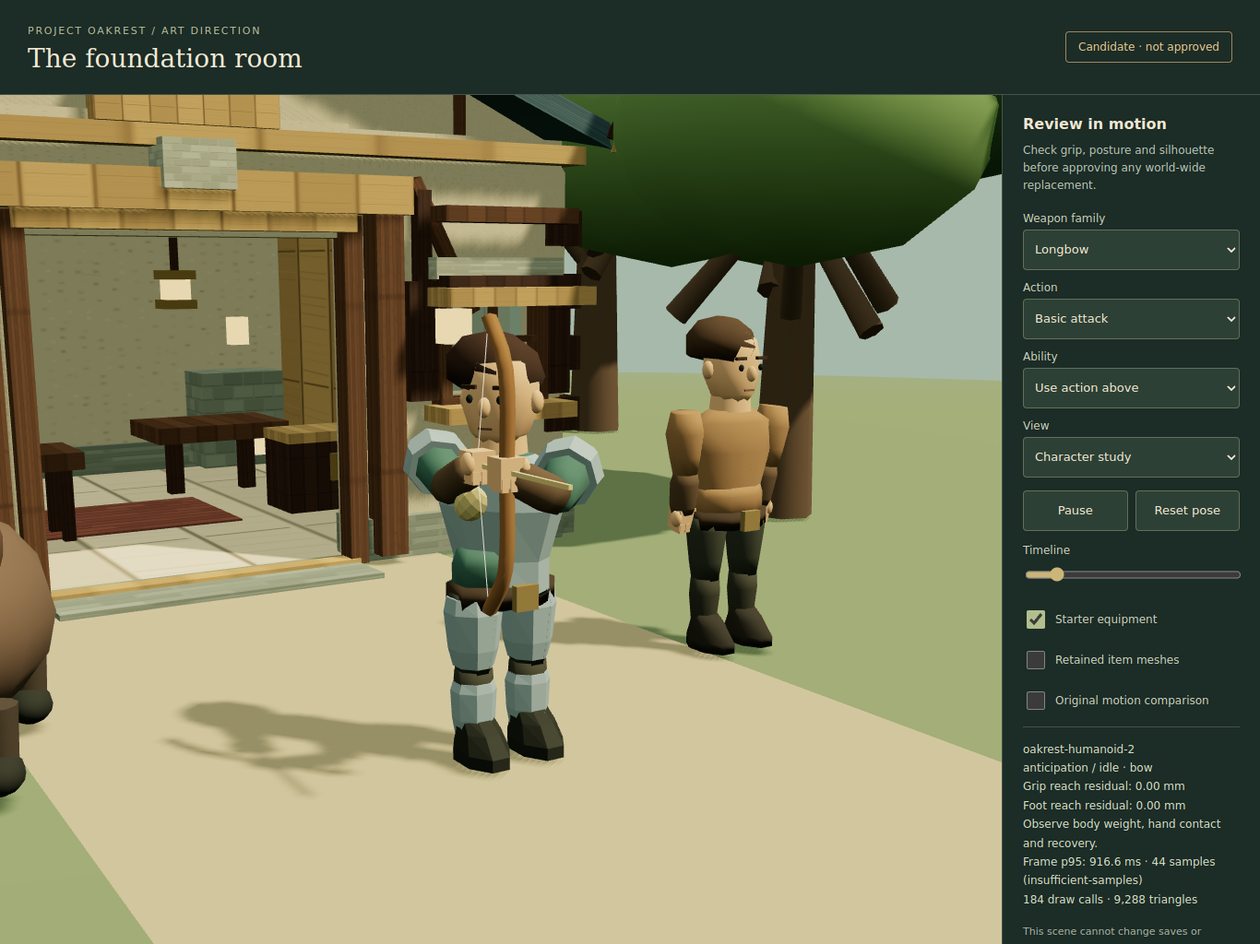
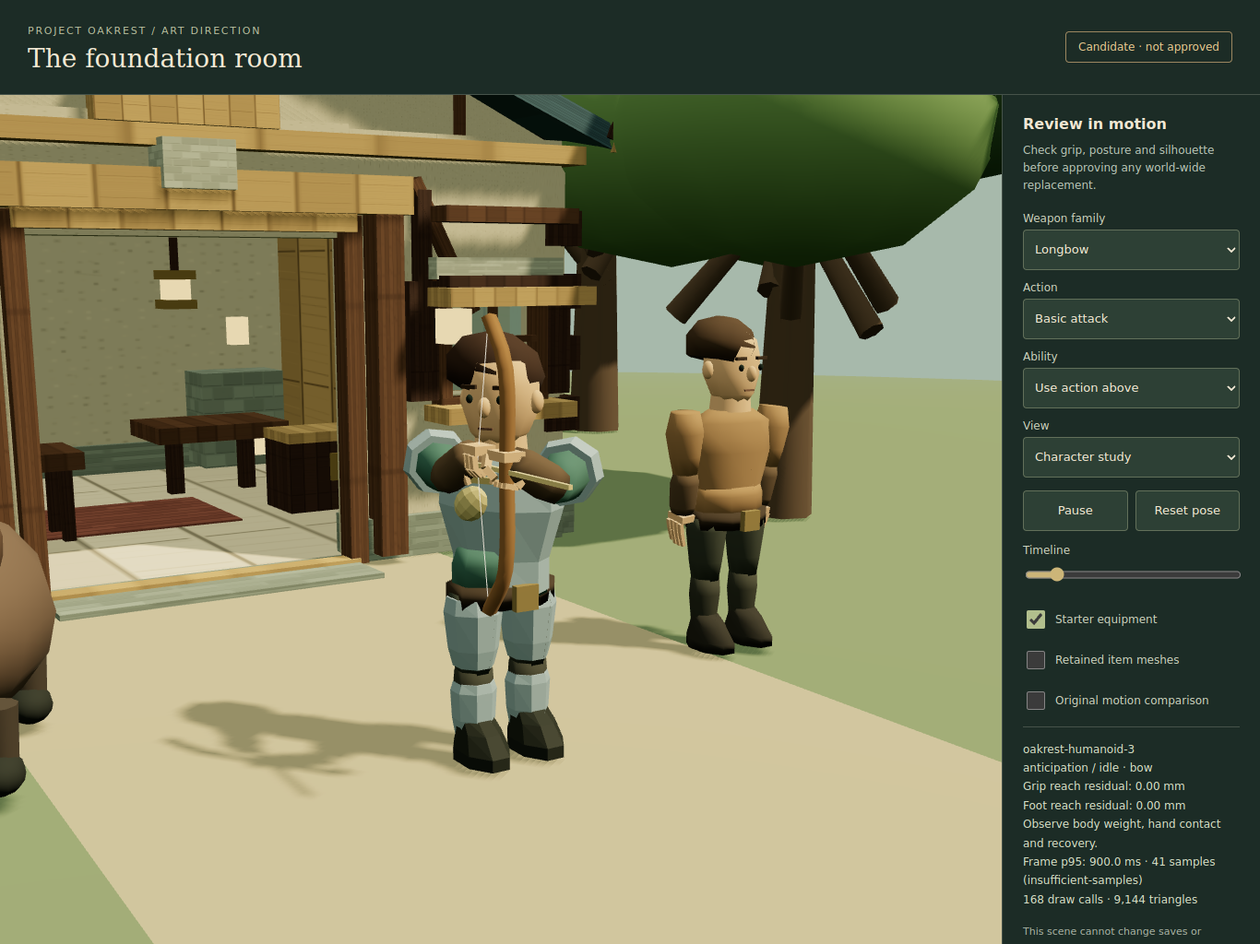
Separate wrist anatomy from grips and ground character falls

diff --git a/src/visual-reference.js b/src/visual-reference.js
@@ -31,7 +31,7 @@ const building={...OAKREST_BUILDINGS.find(b=>b.kind==='home'),id:'reference-hous
 const buildingScene=new THREE.Group();scene.add(buildingScene);const house=buildHouse(buildingScene,building);buildingScene.position.y=-terrainHeight(0,9);
 for(const [i,x,z,h] of [[1,-7,5,1.25],[2,8,8,1.3],[3,-10,13,1.6]])scene.add(treeModel(x,z,h,i));
 const camera=new THREE.PerspectiveCamera(38,1,.05,100);
-const views={character:[4,2.9,-6.5,0,1.25,0],side:[5,2,-1,0,1.35,0],rear:[3,2.6,6,0,1.3,0],ensemble:[12,9,-18,0,2,5],interior:[8,8,1,0,1.8,9]};
+const views={hands:[1.4,1.8,-2.1,.10,1.45,-.25],fallen:[3.8,3,-5.5,0,.4,0],character:[4,2.9,-6.5,0,1.25,0],side:[5,2,-1,0,1.35,0],rear:[3,2.6,6,0,1.3,0],ensemble:[12,9,-18,0,2,5],interior:[8,8,1,0,1.8,9]};
 const specs=listAnimationSpecs();let family='sword',action='idle',selected=null,t=0,paused=false,last=performance.now(),frames=[],elapsed=0,raf=0,disposed=false;
 function option(el,value,label){const o=document.createElement('option');o.value=value;o.textContent=label;el.add(o);}
 for(const name of Object.keys(WEAPON_PROFILES))option($('family'),name,({bow:'Longbow',frost:'Staff',ember:'Wand',daggers:'Twin daggers',woodaxe:'Woodcutting axe'})[name]||name[0].toUpperCase()+name.slice(1));
@@ -46,7 +46,7 @@ function pose(sample=false,dt=1/60){
  const attack=attacking?{start:0,impactAt:selected?.anticipation.seconds??weapon?.windup??.35,interval:d,abilityKind:selected?.motionCue}:null;
  const moving=['walk','backward','left','right'].includes(action),turning=action==='turn';
  actor.rotation.y=legacyActor.rotation.y=turning?t*.7:0;
- const info={dt,t:cycle,stride:t*(action==='run'?10:5),speed:action==='run'?4.7:moving?1.6:0,backwards:action==='backward',side:action==='left'?1:action==='right'?-1:0,turnRate:turning?.7:0,attack,combat:action==='ready'||attacking,hit:action==='hit',dead:action==='death',chopping:action==='work'?{start:0,period:1.18}:null,sample};
+ const info={dt,t:cycle,deathElapsed:t,stride:t*(action==='run'?10:5),speed:action==='run'?4.7:moving?1.6:0,backwards:action==='backward',side:action==='left'?1:action==='right'?-1:0,turnRate:turning?.7:0,attack,combat:action==='ready'||attacking,hit:action==='hit',dead:action==='death',chopping:action==='work'?{start:0,period:1.18}:null,sample};
  animateFoundation(actor.userData,info);animateActor(legacyActor,info);
  animateFoundation(civilian.userData,{dt:1/60,t,combat:false,sample});animateCreature(creature,'boar',t,1/60,0,0,false,0);
  actor.visible=!$('legacy').checked;legacyActor.visible=$('legacy').checked;
@@ -59,6 +59,6 @@ function render(now){if(disposed)return;const rawDt=(now-last)/1000,dt=Math.min(
 $('family').onchange=selectFamily;$('action').onchange=()=>{action=$('action').value;selected=null;$('ability').value='';t=0;};$('ability').onchange=()=>{selected=specs.find(s=>s.id===$('ability').value&&s.weaponFamily===family)||null;t=0;};$('view').onchange=view;$('equipment').onchange=equip;$('imported').onchange=equip;
 $('pause').onclick=()=>{paused=!paused;$('pause').textContent=paused?'Play':'Pause';};$('reset').onclick=()=>{t=0;actor.userData.foundationPosed=false;};$('timeline').oninput=()=>{paused=true;$('pause').textContent='Play';t=Number($('timeline').value)/1000*duration();pose(true);};
 const observer=new ResizeObserver(resize);observer.observe(canvas.parentElement);
-window.oakrestVisualQA={select(name,state='basic',id=''){if(!WEAPON_PROFILES[name])throw Error('Unknown family');$('family').value=name;selectFamily();action=state;$('action').value=state;selected=specs.find(s=>s.id===id&&s.weaponFamily===name)||null;},sample(at,draw=true){paused=true;t=at;pose(true);if(draw)renderer.render(scene,camera);return this.snapshot();},snapshot(){return {family,assetLoaded:actor.userData.weapon.userData.assetLoaded||null,expectedAsset:modelNameForItem('weapon.'+WEAPON_PROFILES[family].style+'.'+(family==='woodaxe'?'bronze-axe':family)),state:actor.userData.animationState,locomotion:actor.userData.locomotion.stage,footError:actor.userData.footError,frameStatistics:summarizeFrameTimes(frames),rigErrors:validateHumanoidRig(actor),gripError:actor.userData.gripError,muzzle:weaponMuzzle(actor).toArray(),drawCalls:renderer.info.render.calls,triangles:renderer.info.render.triangles,geometries:renderer.info.memory.geometries,textures:renderer.info.memory.textures,frames:[...frames],elapsed};},specs:()=>specs,view(name){$('view').value=name;view();},resume(){paused=false;frames=[];}};
+window.oakrestVisualQA={select(name,state='basic',id=''){if(!WEAPON_PROFILES[name])throw Error('Unknown family');$('family').value=name;selectFamily();action=state;$('action').value=state;selected=specs.find(s=>s.id===id&&s.weaponFamily===name)||null;},sample(at,draw=true){paused=true;t=at;pose(true);if(draw)renderer.render(scene,camera);return this.snapshot();},snapshot(){return {family,assetLoaded:actor.userData.weapon.userData.assetLoaded||null,expectedAsset:modelNameForItem('weapon.'+WEAPON_PROFILES[family].style+'.'+(family==='woodaxe'?'bronze-axe':family)),state:actor.userData.animationState,locomotion:actor.userData.locomotion.stage,footError:actor.userData.footError,reaction:{...actor.userData.reaction},bodyGroundCorrection:actor.userData.bodyGroundCorrection,frameStatistics:summarizeFrameTimes(frames),rigErrors:validateHumanoidRig(actor),gripError:actor.userData.gripError,muzzle:weaponMuzzle(actor).toArray(),drawCalls:renderer.info.render.calls,triangles:renderer.info.render.triangles,geometries:renderer.info.memory.geometries,textures:renderer.info.memory.textures,frames:[...frames],elapsed};},specs:()=>specs,view(name){$('view').value=name;view();},resume(){paused=false;frames=[];}};
 function dispose(){if(disposed)return;disposed=true;cancelAnimationFrame(raf);observer.disconnect();const geometries=new Set(),materials=new Set(),textures=new Set();scene.traverse(o=>{if(o.geometry)geometries.add(o.geometry);for(const m of Array.isArray(o.material)?o.material:o.material?[o.material]:[]){materials.add(m);for(const value of Object.values(m))if(value?.isTexture)textures.add(value);}});geometries.forEach(g=>g.dispose());materials.forEach(m=>m.dispose());textures.forEach(t=>t.dispose());renderer.dispose();renderer.forceContextLoss();}
 addEventListener('pagehide',dispose,{once:true});selectFamily();view();resize();raf=requestAnimationFrame(render);

diff --git a/tests/foundation-reactions.test.js b/tests/foundation-reactions.test.js
@@ -1,0 +1,54 @@
+import test from 'node:test';
+import assert from 'node:assert/strict';
+import * as THREE from 'three';
+import {createActor,equipActor} from '../src/actors.js';
+import {animateFoundation} from '../src/foundation-motion.js';
+import {WEAPON_PROFILES,validateHumanoidRig} from '../src/rig-contract.js';
+const make=family=>{const actor=createActor(false,{foundation:true});equipActor(actor,WEAPON_PROFILES[family].style,family,'none');return actor;};
+function bodyFloor(actor,ground=()=>0){
+ const u=actor.userData,inverse=actor.matrixWorld.clone().invert(),matrix=new THREE.Matrix4(),point=new THREE.Vector3();let lowest=Infinity;
+ function visit(node){
+  if(!node.visible||node===u.weapon||node===u.offhand||node===u.cape)return;
+  if(node.isMesh){
+   if(!node.geometry.boundingBox)node.geometry.computeBoundingBox();const b=node.geometry.boundingBox;matrix.multiplyMatrices(inverse,node.matrixWorld);
+   for(let corner=0;corner<8;corner++){point.set(corner&1?b.max.x:b.min.x,corner&2?b.max.y:b.min.y,corner&4?b.max.z:b.min.z).applyMatrix4(matrix);lowest=Math.min(lowest,point.y-ground(point.x,point.z));}
+  }
+  for(const child of node.children)visit(child);
+ }
+ visit(u.rig);return lowest;
+}
+test('death fall grounds the visible body, keeps grips and never moves the gameplay root',()=>{
+ for(const family of Object.keys(WEAPON_PROFILES)){
+  const actor=make(family),u=actor.userData;actor.position.set(7,3,-2);actor.rotation.y=2.1;actor.scale.setScalar(.85);actor.updateMatrix();const original=actor.matrix.clone();
+  for(const ground of [()=>0,(x,z)=>Math.max(-.12,Math.min(.12,x*.03+z*.025))])for(let frame=0;frame<80;frame++){
+   animateFoundation(u,{t:frame/60,deathElapsed:frame/60,dt:1/60,dead:true,sample:true,groundHeightAt:ground});actor.updateMatrixWorld(true);
+   assert.ok(bodyFloor(actor,ground)>=-1e-6,`${family} frame ${frame} penetrates body ground`);
+   assert.ok(u.gripError<.001,family);assert.deepEqual(actor.matrix.toArray(),original.toArray());
+  }
+  assert.ok(Math.abs(u.rig.rotation.x-Math.PI/2)<1e-6);assert.ok(u.rig.position.y<.4,'body must not be raised by a long weapon');
+ }
+});
+test('fall plays once, does not restart with an attack interval, and recovers to neutral',()=>{
+ const actor=make('greatsword'),u=actor.userData;let last=null,maxJump=0;
+ for(let frame=0;frame<210;frame++){
+  animateFoundation(u,{t:frame/60,dt:1/60,dead:frame>=10&&frame<130,hit:frame===4});actor.updateMatrixWorld(true);
+  const head=u.head.getWorldPosition(new THREE.Vector3());if(last)maxJump=Math.max(maxJump,head.distanceTo(last));last=head;
+  assert.ok(u.gripError<.001);if(frame>=60&&frame<130)assert.equal(u.reaction.fall,1);
+ }
+ assert.ok(maxJump<.22,`single-frame head jump ${maxJump}`);assert.equal(u.reaction.fall,0);
+ assert.ok(u.rig.position.length()<1e-6);assert.ok(Math.abs(u.rig.rotation.x)<1e-6);assert.ok(Math.abs(u.rig.rotation.z)<1e-6);assert.ok(u.footError<1e-6);
+ assert.equal(u.animationState,'idle');assert.equal(u.visualActionStart,null);
+});
+test('wrist solves keep grip sockets fixed while shared hand skins pose independently',()=>{
+ const actor=make('greatsword'),u=actor.userData,other=make('greatsword');
+ assert.equal(u.leftHandSkin.geometry,other.userData.leftHandSkin.geometry);
+ assert.notEqual(u.leftHandSkin.morphTargetInfluences,other.userData.leftHandSkin.morphTargetInfluences);
+ for(const family of Object.keys(WEAPON_PROFILES)){
+  equipActor(actor,WEAPON_PROFILES[family].style,family,'none');animateFoundation(u,{t:.3,attack:{start:0,impactAt:.5,interval:1},sample:true});actor.updateMatrixWorld(true);
+  assert.deepEqual(validateHumanoidRig(actor),[]);assert.ok(u.gripError<.001);
+  for(const side of ['left','right'])assert.equal(u[side+'Wrist'].position.length(),.34);
+  if(WEAPON_PROFILES[family].draw)assert.deepEqual(u.rightHandSkin.morphTargetInfluences,[0,1]);
+ }
+ u.family='civilian';u.weapon.clear();u.offhand.clear();animateFoundation(u,{t:0,combat:false,sample:true});
+ assert.deepEqual(u.leftHandSkin.morphTargetInfluences,[0,0]);assert.deepEqual(u.rightHandSkin.morphTargetInfluences,[0,0]);
+});

diff --git a/src/main.js b/src/main.js
@@ -1486,7 +1486,7 @@ window.oakrestDiagnostics=()=>({...stats,quality,graphics:visualLighting.metrics
 // Local-only QA uses isolated browser contexts and the real simulation/actions.
 if((['localhost','127.0.0.1'].includes(location.hostname)||/^\/oakrest-dev(?:\/|$)/.test(location.pathname))&&new URLSearchParams(location.search).has('qa'))window.oakrestQA={
  animation:{specs:()=>listAnimationSpecs(),events:()=>animationJournal.latest(),pose:(family,cue,windup=1,release=0)=>abilityMotion(family,cue,windup,release),active:()=>attackAnimation?{...attackAnimation}:null,
-  visual:()=>({candidate:candidateVisuals,rigVersion:hero.userData.rigVersion||null,family:hero.userData.family,state:hero.userData.animationState||null,locomotion:hero.userData.locomotion?.stage||null,gripError:hero.userData.gripError??null,footError:hero.userData.footError??null,assetLoaded:hero.userData.weapon.userData.assetLoaded||null})},
+  visual:()=>({candidate:candidateVisuals,rigVersion:hero.userData.rigVersion||null,family:hero.userData.family,state:hero.userData.animationState||null,locomotion:hero.userData.locomotion?.stage||null,gripError:hero.userData.gripError??null,footError:hero.userData.footError??null,reaction:hero.userData.reaction?{...hero.userData.reaction}:null,bodyGroundCorrection:hero.userData.bodyGroundCorrection??null,assetLoaded:hero.userData.weapon.userData.assetLoaded||null})},
  state:()=>({data:structuredClone(data),quickInventory:{open:sideInventoryOpen,items:inventoryEntries(data).length},woodcutting:{active:woodcuttingTarget?.id||null,trees:woodcuttingTrees.map(tree=>({id:tree.id,species:tree.species,logs:tree.state.logs,respawnAt:tree.state.respawnAt,visible:tree.group.visible}))},style,hp,combatTarget:combatTarget?.type||null,autoCombat:!!combatTarget,maxHit:maxHitFor(levelFromXp(data.xp[style]).level,getWeapon().basic,outgoingMultiplier(data.armour[style],style)*equipmentModifiers(data,style).power),city:{districts:expandedTown.districts,landmark:expandedTown.landmark,ambientCount:expandedTown.ambientCount},heroHeading:hero.rotation.y,cameraPosition:{x:camera.position.x,y:camera.position.y,z:camera.position.z},town:{buildings:expandedTown.buildings,staff:townLife.staff,villagers:townLife.snapshot(),inside:expandedTown.inside(hero.position.x,hero.position.z),interiorCameraBlend},cameraSettings:{...cameraSettings},gamepadConnected:!!padState,yaw,pitch,area:data.onboarding?.area||'world',hero:{x:hero.position.x,y:hero.position.y,z:hero.position.z},yaw,shieldUntil,dodgeUntil,cooldowns:Object.fromEntries(cooldowns),pendingBasic:!!pendingBasic,pendingAbility:!!pendingAbility,queuedAbility:queuedAbility?.index??null,attackUntil,time:now(),enemies:enemies.map(e=>({type:e.type,x:e.x,z:e.z,hp:e.hp,dead:e.dead,retreating:e.retreating,aggro:e.aggro,warning:!!e.warning,aiState:e.aiState||'idle',rootUntil:e.rootUntil,stunUntil:e.stunUntil,startX:e.startX,startZ:e.startZ})),projectiles:projectiles.filter(p=>!p.particle).length,activeStrikes:activeStrikes.length,effects:projectiles.length+rings.length+visuals.count}),
  quickInventory(open){setSideInventoryOpen(open);},woodcut:id=>startWoodcutting(id),learnWoodcutting(){data.professions.woodcuttingLearned=true;if(!data.inventory.weapons.melee.includes('bronze-axe'))data.inventory.weapons.melee.push('bronze-axe');save();},
  aim(x,y,z){const dx=x-hero.position.x,dz=z-hero.position.z;yaw=Math.atan2(dx,-dz);const distance=Math.hypot(dx,dz);let lo=-.45,hi=.85;for(let i=0;i<30;i++){const p=(lo+hi)/2,orbit=cameraOrbitVector(yaw,p,cameraSettings.zoom,cameraSettings.height),cameraY=hero.position.y+1.65+orbit.y,focusY=hero.position.y+1.65-p*4,atY=cameraY+(focusY-cameraY)*(distance+Math.hypot(orbit.x,orbit.z))/(2.8+Math.hypot(orbit.x,orbit.z));if(atY>y)lo=p;else hi=p;}pitch=(lo+hi)/2;},

diff --git a/src/foundation-motion.js b/src/foundation-motion.js
@@ -7,6 +7,9 @@ import {abilityMotion} from './animation-language.js';
 import {constrainWeaponHands} from './weapon-handling.js';
 import {locomotionFrame,plantFoundationFeet} from './foundation-locomotion.js';
 import {visualActionClock} from './visual-action-clock.js';
+import {poseHumanoidHands} from './humanoid-hands.js';
+import {WEAPON_PROFILES} from './rig-contract.js';
+import {reactionFrame,poseFoundationReaction,supportFallenBody} from './foundation-reactions.js';
 const clamp=v=>Math.min(1,Math.max(0,v));
 const smooth=v=>{v=clamp(v);return v*v*(3-2*v);};
 export function foundationState({t=0,attack=null,dead=false,hit=false,dodge=0,chopping=null,speed=0,combat=false}){
@@ -21,13 +24,18 @@ export function animateFoundation(u,info){
  const clock=visualActionClock(t,active?attack:null),wind=clock.wind,recovery=clock.recovery,release=clock.contact;
  const cue=abilityMotion(family,active?attack.abilityKind:null,wind,release,attack?.combo);
  const motion=locomotionFrame(u,info),strength=clamp(motion.speed/4.7),s=Math.sin(motion.phase*Math.PI*2)*(backwards?-1:1),alert=combat||active;
+ const reaction=reactionFrame(u,info);
  u.animationState=state;
  const snap=info.sample||!u.foundationPosed;
- const rotation=(node,x,y,z)=>{if(snap)node.rotation.set(x,y,z);else node.rotation.set(damp(node.rotation.x,x,18,dt),damp(node.rotation.y,y,18,dt),damp(node.rotation.z,z,18,dt));};
- rotation(u.rig,dodge*.45+cue.lean*.3,0,dead?-1.5:hit?.08:-side*.04-motion.turn*.012);
+ const rotation=(node,x,y,z)=>{
+  // Reactions are an output layer, never next frame's base pose input.
+  const base=node.userData.foundationBaseRotation||(node.userData.foundationBaseRotation=node.rotation.clone());
+  if(snap)base.set(x,y,z);else base.set(damp(base.x,x,18,dt),damp(base.y,y,18,dt),damp(base.z,z,18,dt));node.rotation.copy(base);
+ };
+ rotation(u.rig,dodge*.45+cue.lean*.3,0,hit?.08:-side*.04-motion.turn*.012);
  rotation(u.upperBody,0,(family==='bow'||family==='shortbow'?-1:0)+cue.twist*.35,0);
  // Knees compensate swing clearance. No imported leg rotations at idle.
- u.rig.position.y=dead?.08:0;
+ u.rig.position.set(0,0,0);
  for(const [sign,leg,knee] of [[1,u.leftLeg,u.leftKnee],[-1,u.rightLeg,u.rightKnee]]){
   leg.rotation.set(sign*s*.45*strength,0,0);
   knee.rotation.set(Math.max(0,-sign*s)*.65*strength,0,0);
@@ -38,6 +46,8 @@ export function animateFoundation(u,info){
  u.rightArm.rotation.set(-.05+s*.25*strength,0,-.08);
  u.leftElbow.rotation.set(-.12,0,0);u.rightElbow.rotation.set(-.12,0,0);
  u.leftHand.rotation.set(0,0,0);u.rightHand.rotation.set(0,0,0);
+ u.leftWrist.rotation.set(0,0,0);u.rightWrist.rotation.set(0,0,0);
+ poseHumanoidHands(u,WEAPON_PROFILES[family],info);
  let x=.30,y=1.16,z=-.24,rx=-.55,ry=0,rz=0;
  if(family==='bow'||family==='shortbow'){
   x=-.32;y=alert?1.83:1.30;z=alert?-.60:-.40;rx=0;ry=1.0;rz=alert?0:-.18;
@@ -84,6 +94,8 @@ export function animateFoundation(u,info){
  if(u.nockedArrow){u.nockedArrow.position.z=u.bowString?.31+.34*pull:0;u.nockedArrow.visible=state!=='recovery'||recovery>.6;}
  if(u.crossbowSlider)u.crossbowSlider.position.z=-.57+.26*wind;
  if(u.magicFocus)u.magicFocus.scale.setScalar((family==='ember'?.6:1)*(1+.10*wind));
+ poseFoundationReaction(u,reaction);
  constrainWeaponHands(u,pull);
- plantFoundationFeet(u,info,motion);
+ if(!reaction.weight)plantFoundationFeet(u,info,motion);else u.footError=0;
+ supportFallenBody(u,info,reaction);
 }

diff --git a/src/humanoid-hands.js b/src/humanoid-hands.js
@@ -1,0 +1,49 @@
+/** Authored, mirrored hands. One shared morph mesh per side, four fingers and
+ * an opposed thumb. The empty centre is the grip socket; the wrist is 0.08 units
+ * above it. Morphs alter skin only, never the socket or an action clock. */
+import * as THREE from 'three';
+const cache=new Map(),box=new THREE.BoxGeometry(1,1,1).toNonIndexed();
+const axis=new THREE.Vector3(0,1,0);
+function geometryFor(side,pose){
+ const positions=[],normals=[],v=new THREE.Vector3(),q=new THREE.Quaternion();
+ function segment(a,b,width,depth){
+  const start=new THREE.Vector3(...a),end=new THREE.Vector3(...b),direction=end.clone().sub(start);
+  const length=direction.length(),centre=start.add(end).multiplyScalar(.5);
+  q.setFromUnitVectors(axis,direction.normalize());
+  for(let i=0;i<box.attributes.position.count;i++){
+   v.fromBufferAttribute(box.attributes.position,i).multiply(new THREE.Vector3(width,length,depth)).applyQuaternion(q).add(centre);positions.push(v.x,v.y,v.z);
+   v.fromBufferAttribute(box.attributes.normal,i).applyQuaternion(q);normals.push(v.x,v.y,v.z);
+  }
+ }
+ segment([0,.061,0],[0,.112,0],.13,.174);
+ for(let finger=0;finger<4;finger++){
+  const z=-.066+finger*.044,scale=finger===3?.86:finger===0?.94:1;
+  const grip=[[.065,.065],[.090,-.015],[.027,-.085],[-.054,-.065]];
+  const open=[[.065,.065],[.052,-.015],[.035,-.080],[.020,-.135]];
+  const draw=[[.065,.065],[.057,-.012],[.015,-.055],[-.020,-.028]];
+  const points=(pose==='grip'?grip:pose==='draw'&&finger<3?draw:open).map(([x,y])=>[x*side,y*scale,z]);
+  for(let i=0;i<3;i++)segment(points[i],points[i+1],.033-i*.003,.034-i*.002);
+ }
+ const thumb=pose==='grip'?[[ -.057,.078,.096],[-.085,.015,.068],[-.060,-.035,.015]]:
+  [[-.057,.078,.096],[-.093,.020,.095],[-.083,-.020,.065]];
+ for(let i=0;i<2;i++)segment(thumb[i].map((n,j)=>j===0?n*side:n),thumb[i+1].map((n,j)=>j===0?n*side:n),.040-i*.004,.043-i*.003);
+ const geometry=new THREE.BufferGeometry();geometry.setAttribute('position',new THREE.Float32BufferAttribute(positions,3));geometry.setAttribute('normal',new THREE.Float32BufferAttribute(normals,3));
+ return geometry;
+}
+export function createHumanoidHand(material,side){
+ if(!cache.has(side)){
+  const geometry=geometryFor(side,'open'),grip=geometryFor(side,'grip'),draw=geometryFor(side,'draw');
+  geometry.morphAttributes.position=[grip.attributes.position,draw.attributes.position];geometry.morphAttributes.normal=[grip.attributes.normal,draw.attributes.normal];
+  geometry.computeBoundingBox();geometry.computeBoundingSphere();geometry.userData.sharedHumanoidShape=true;cache.set(side,geometry);
+ }
+ const mesh=new THREE.Mesh(cache.get(side),material);mesh.name='humanoid.hand-skin';mesh.castShadow=true;return mesh;
+}
+export function poseHumanoidHands(u,profile,info){
+ for(const side of ['left','right']){
+  const mesh=u[side+'HandSkin'];if(!mesh)continue;
+  const draw=!!profile?.draw&&side==='right';
+  const held=profile&&(side===profile.primary||!!profile.secondary&&side==='left'||u.family==='daggers'||side==='left'&&u.offhand.children.length>0);
+  const blend=info.sample||!u.foundationPosed?1:1-Math.exp(-24*Math.max(0,Math.min(.1,info.dt||0)));
+  for(let i=0;i<2;i++){const target=i===0?held&&!draw?1:0:draw?1:0;mesh.morphTargetInfluences[i]+=(target-mesh.morphTargetInfluences[i])*blend;}
+ }
+}

diff --git a/src/foundation-reactions.js b/src/foundation-reactions.js
@@ -1,0 +1,55 @@
+/** Visual fall/recovery and impact response. The simulation root, health and
+ * attack clocks are never written. Body support uses transformed mesh bounds;
+ * weapons/capes cannot lever the character off the floor. */
+import * as THREE from 'three';
+const inverse=new THREE.Matrix4(),matrix=new THREE.Matrix4(),point=new THREE.Vector3();
+const clamp=v=>Math.max(0,Math.min(1,v)),smooth=v=>v*v*(3-2*v);
+export function reactionFrame(u,info){
+ const dt=Math.max(0,Math.min(.1,info.dt||0));
+ const state=u.reaction||(u.reaction={fall:0,hit:0});
+ if(info.sample){state.fall=info.dead?clamp((info.deathElapsed??info.t??0)/.65):0;state.hit=info.hit&&!info.dead?1:0;}
+ else{
+  state.fall=clamp(state.fall+(info.dead?dt/.65:-dt/.45));
+  state.hit+=((info.hit&&!info.dead?1:0)-state.hit)*(1-Math.exp(-28*dt));
+ }
+ state.weight=smooth(state.fall);return state;
+}
+export function poseFoundationReaction(u,reaction){
+ const w=reaction.weight,hit=reaction.hit*(1-w);
+ u.rig.rotation.z*=1-w;
+ u.rig.rotation.x=u.rig.rotation.x*(1-w)+Math.PI*.5*w;u.rig.position.z=-.78*w;
+ u.upperBody.rotation.y*=1-w;u.upperBody.rotation.x=-.10*hit;
+ u.head.rotation.x=.10*hit-.10*w;u.head.rotation.z*=1-w;
+ if(!w)return;
+ for(const [side,thigh,knee] of [['left',.20,.45],['right',.10,.20]]){
+  u[side+'Leg'].rotation.set(thigh*w,0,0);u[side+'Knee'].rotation.set(knee*w,0,0);u[side+'Ankle'].quaternion.identity();
+  const arm=u[side+'Arm'],elbow=u[side+'Elbow'];
+  arm.rotation.set(arm.rotation.x*(1-w)+.25*w,arm.rotation.y*(1-w),arm.rotation.z*(1-w)+(side==='left'?-.12:.12)*w);
+  elbow.rotation.set(elbow.rotation.x*(1-w)-.20*w,0,0);
+ }
+ // Lay the shaft along the ground plane as the body settles. Hand constraints
+ // run afterwards, preserving both grips even when a fall interrupts a swing.
+ u.weapon.position.lerp(point.set(.20,1.30,-.15),w);
+ u.weapon.rotation.set(u.weapon.rotation.x*(1-w),u.weapon.rotation.y*(1-w)-Math.PI*.5*w,u.weapon.rotation.z*(1-w));
+}
+export function supportFallenBody(u,info,reaction){
+ if(!reaction.weight){u.bodyGroundCorrection=0;return;}
+ const actor=u.rig.parent;actor.updateWorldMatrix(true,true);inverse.copy(actor.matrixWorld).invert();
+ let lift=-Infinity;
+ function visit(node){
+  if(!node.visible||node===u.weapon||node===u.offhand||node===u.cape)return;
+  if(node.isMesh){
+   const geometry=node.geometry;if(!geometry.boundingBox)geometry.computeBoundingBox();
+   const bounds=geometry.boundingBox;matrix.multiplyMatrices(inverse,node.matrixWorld);
+   for(let corner=0;corner<8;corner++){
+    point.set(corner&1?bounds.max.x:bounds.min.x,corner&2?bounds.max.y:bounds.min.y,corner&4?bounds.max.z:bounds.min.z).applyMatrix4(matrix);
+    const sampled=info.groundHeightAt?.(point.x,point.z)??0,ground=Number.isFinite(sampled)?Math.max(-.18,Math.min(.18,sampled)):0;
+    lift=Math.max(lift,ground+.006-point.y);
+   }
+  }
+  for(const child of node.children)visit(child);
+ }
+ visit(u.rig);
+ u.bodyGroundCorrection=Number.isFinite(lift)?Math.max(0,lift):0;
+ u.rig.position.y+=u.bodyGroundCorrection;
+}

diff --git a/src/actors.js b/src/actors.js
@@ -6,6 +6,7 @@ import {restoreKayKitPose,applyKayKitPose} from './kaykit-motion.js';
 import {animateFoundation} from './foundation-motion.js';
 import {HUMANOID_RIG_VERSION,HUMANOID_JOINTS} from './rig-contract.js';
 import {HUMANOID_SHAPES as shapes} from './humanoid-shapes.js';
+import {createHumanoidHand} from './humanoid-hands.js';
 import {AXE_BY_ID} from './woodcutting.js';
 const materials=new Map(),geometries=new Map();
 const material=(color,metal=false)=>{const key=color+metal;if(!materials.has(key))materials.set(key,new THREE.MeshStandardMaterial({color,roughness:metal?.38:.88,metalness:metal?.55:0}));return materials.get(key);};
@@ -51,16 +52,18 @@ export function createActor(bandit=false,{foundation=false}={}){
   const p=pivot(rig,s*.43,1.77,0),elbow=pivot(p,0,-.40,0);
   if(foundation){mesh(p,shapes.upperArm,body,0,0,0);mesh(elbow,shapes.forearm,'#675440',0,0,0);}
   else {ball(p,body,0,-.02,0,.19,.23,.19);tube(p,body,0,-.22,0,.13,.105,.39);ball(elbow,skin,0,0,0,.105,.11,.10);tube(elbow,'#675440',0,-.16,0,.12,.10,.30);ball(elbow,skin,0,-.33,0,.115,.135,.105);}
-  const hand=pivot(elbow,0,-.34,foundation?0:-.06);
-  if(foundation){block(hand,skin,0,0,0,.15,.16,.14);for(let i=0;i<3;i++)block(hand,skin,-.06+i*.055,-.065,-.015,.042,.07,.12);ball(hand,skin,s*.082,.015,-.035,.038,.065,.05);}
+  const wrist=foundation?pivot(elbow,0,-.34,0):null;
+  const hand=foundation?pivot(wrist,0,-.08,0):pivot(elbow,0,-.34,-.06);
+  const handSkin=foundation?createHumanoidHand(skin,s):null;if(handSkin)hand.add(handSkin);
   pauldrons.push(foundation?mesh(p,shapes.pauldron,material('#839a9b',true),0,.025,0):ball(p,material('#839a9b',true),0,.035,0,.23,.18,.24));
-  return {p,elbow,hand};
+  return {p,elbow,hand,wrist,handSkin};
  }
  const ll=leg(-1),rl=leg(1),la=arm(-1),ra=arm(1);
  g.userData={rig,head,body,cloth,cape,chestPlate,leather,pauldrons,skinMaterial:skin,hairMat,hair,hairBack,hairTail,hairCurls,torso,outfitTrims,leftLeg:ll.p,rightLeg:rl.p,leftKnee:ll.knee,rightKnee:rl.knee,leftArm:la.p,rightArm:ra.p,leftElbow:la.elbow,rightElbow:ra.elbow,weapon:ra.hand,offhand:la.hand,leftHand:la.hand,rightHand:ra.hand,foundation,owned:[],family:'sword'};
  if(foundation){
   const u=g.userData;u.rigVersion=HUMANOID_RIG_VERSION;u.head.scale.setScalar(.9);
   u.leftAnkle=ll.ankle;u.rightAnkle=rl.ankle;
+  u.leftWrist=la.wrist;u.rightWrist=ra.wrist;u.leftHandSkin=la.handSkin;u.rightHandSkin=ra.handSkin;
   u.upperBody=pivot(rig,0,0,0);
   for(const part of [torso,neck,head,cape,chestPlate,leather,la.p,ra.p,...outfitTrims])u.upperBody.add(part);
   u.bodyGeometry=[capeGeo];

diff --git a/visual-reference.html b/visual-reference.html
@@ -6,7 +6,7 @@
 <aside><h2>Review in motion</h2><p>Check grip, posture and silhouette before approving any world-wide replacement.</p>
 <label>Weapon family<select id="family"></select></label><label>Action<select id="action"><option value="idle">Relaxed idle</option><option value="ready">Combat ready</option><option value="walk">Walk</option><option value="run">Run</option><option value="backward">Walk backward</option><option value="left">Strafe left</option><option value="right">Strafe right</option><option value="turn">Turn in place</option><option value="basic">Basic attack</option><option value="hit">Hit response</option><option value="death">Death pose</option><option value="work">Woodcutting</option></select></label>
 <label>Ability<select id="ability"><option value="">Use action above</option></select></label>
-<label>View<select id="view"><option value="character">Character study</option><option value="ensemble">World & inhabitants</option><option value="interior">Interior cutaway</option><option value="side">Grip side view</option><option value="rear">Rear view</option></select></label>
+<label>View<select id="view"><option value="character">Character study</option><option value="ensemble">World & inhabitants</option><option value="interior">Interior cutaway</option><option value="side">Grip side view</option><option value="rear">Rear view</option><option value="hands">Hand detail</option><option value="fallen">Fall & ground contact</option></select></label>
 <div class="row"><button id="pause">Pause</button><button id="reset">Reset pose</button></div><label>Timeline<input id="timeline" type="range" min="0" max="1000" value="0"></label>
 <label class="check"><input id="equipment" type="checkbox" checked> Starter equipment</label><label class="check"><input id="imported" type="checkbox"> Retained item meshes</label><label class="check"><input id="legacy" type="checkbox"> Original motion comparison</label>
 <output id="readout" aria-live="polite"></output><p class="note">This scene cannot change saves or resolve combat. Pose contact is not evidence of gameplay hit accuracy. Physical iPad Safari review is still required.</p>

diff --git a/src/rig-contract.js b/src/rig-contract.js
@@ -1,9 +1,9 @@
-/** Oakrest humanoid v2 contract. Visual units preserve the existing 2.5-unit actor.
+/** Oakrest humanoid v3 contract. Visual units preserve the existing 2.5-unit actor.
  * -Z forward, +Y up, +X character-left from the viewer facing the actor.
  * No profile may change a gameplay range, attack clock or collision shape.
  */
-export const HUMANOID_RIG_VERSION='oakrest-humanoid-2';
-export const HUMANOID_JOINTS=Object.freeze(['rig','upperBody','head','leftArm','rightArm','leftElbow','rightElbow','leftHand','rightHand','leftLeg','rightLeg','leftKnee','rightKnee','leftAnkle','rightAnkle']);
+export const HUMANOID_RIG_VERSION='oakrest-humanoid-3';
+export const HUMANOID_JOINTS=Object.freeze(['rig','upperBody','head','leftArm','rightArm','leftElbow','rightElbow','leftWrist','rightWrist','leftHand','rightHand','leftLeg','rightLeg','leftKnee','rightKnee','leftAnkle','rightAnkle']);
 export const WEAPON_PROFILES=Object.freeze({
  sword:{style:'melee',primary:'right',grip:[0,0,0],muzzle:[0,0,-1.23]},
  greatsword:{style:'melee',primary:'right',grip:[0,0,0],secondary:[0,0,.18],muzzle:[0,0,-1.65]},
@@ -24,5 +24,6 @@ export function validateHumanoidRig(actor){
  for(const name of HUMANOID_JOINTS)if(!u?.[name]?.isObject3D)errors.push('Missing joint '+name);
  for(const name of ['weapon','offhand'])if(!u?.[name]?.isObject3D)errors.push('Missing socket '+name);
  if(u?.foundation&&(u.upperBody?.parent!==u.rig||u.weapon.parent!==u.upperBody))errors.push('Weapon control must belong to upper-body visual rig');
+ for(const side of ['left','right'])if(u?.foundation&&(u[side+'Wrist']?.parent!==u[side+'Elbow']||u[side+'Hand']?.parent!==u[side+'Wrist']))errors.push('Invalid wrist/grip hierarchy: '+side);
  return errors;
 }

diff --git a/src/weapon-handling.js b/src/weapon-handling.js
@@ -6,12 +6,13 @@
 import * as THREE from 'three';
 import {WEAPON_PROFILES} from './rig-contract.js';
 import {solveTwoBone} from './two-bone-constraint.js';
-const direction=new THREE.Vector3(),pole=new THREE.Vector3(),target=new THREE.Vector3();
+const direction=new THREE.Vector3(),pole=new THREE.Vector3(),target=new THREE.Vector3(),wristGoal=new THREE.Vector3();
 const UPPER=.40,LOWER=.34;
 export function solveArm(u,side,goal,orientation){
- const upper=u[side+'Arm'],lower=u[side+'Elbow'],hand=u[side+'Hand'];
+ const upper=u[side+'Arm'],lower=u[side+'Elbow'],hand=u[side+'Hand'],wrist=u[side+'Wrist'];
  pole.set(side==='left'?-.75:.75,-.65,.25);
- return solveTwoBone(upper,lower,hand,goal,pole,orientation);
+ wristGoal.copy(hand.position).applyQuaternion(orientation).negate().add(goal);
+ return solveTwoBone(upper,lower,wrist,wristGoal,pole,orientation);
 }
 export function constrainWeaponHands(u,pull=0){
  const profile=WEAPON_PROFILES[u.family];if(!profile)return;
@@ -27,7 +28,8 @@ export function constrainWeaponHands(u,pull=0){
    else if(profile.draw)target.set(0,0,.18+.34*pull);
    else target.fromArray(profile.secondary);
    target.applyQuaternion(w.quaternion).add(w.position);
-   direction.copy(target).sub(u[side+'Arm'].position);
+   wristGoal.copy(u[side+'Hand'].position).applyQuaternion(w.quaternion);
+   direction.copy(target).sub(wristGoal).sub(u[side+'Arm'].position);
    const distance=direction.length(),limit=UPPER+LOWER-.012;
    if(distance>limit)w.position.addScaledVector(direction,-(distance-limit)/distance);
   }

diff --git a/tests/visual-foundation.test.js b/tests/visual-foundation.test.js
@@ -25,7 +25,7 @@ test('canonical rigs retain named joints and exact bone lengths across every fam
   const a=createActor(false,{foundation:true});equipActor(a,profile.style,family,'none');
   a.position.set(8,3,-9);a.rotation.y=2.7;a.scale.setScalar(.85);
   assert.deepEqual(validateHumanoidRig(a),[]);
-  assert.ok(a.userData.leftHand.children.filter(x=>x.isMesh).length>=5,'re-equipping must retain palm and fingers');
+  assert.equal(a.userData.leftHandSkin.parent,a.userData.leftHand,'re-equipping must retain shared articulated hand skin');
   const root=a.position.clone(),rotation=a.quaternion.clone();
   for(const spec of [null,...listAnimationSpecs().filter(s=>s.weaponFamily===family)]){
    const interval=spec?.recovery.seconds||1.2,impact=spec?.anticipation.seconds??.4;
@@ -35,7 +35,8 @@ test('canonical rigs retain named joints and exact bone lengths across every fam
     const v=t<impact?Math.max(0,Math.min(1,t/Math.max(.001,impact))):0,pull=v*v*(3-2*v);
     checkGrip(a,profile,pull);
     assert.equal(a.userData.leftElbow.position.length(),.4);
-    assert.equal(a.userData.rightHand.position.length(),.34);
+    assert.equal(a.userData.rightWrist.position.length(),.34);
+    assert.equal(a.userData.rightHand.position.length(),.08);
     assert.deepEqual(a.position,root,'visual pose cannot move gameplay root');
     assert.deepEqual(a.quaternion.toArray(),rotation.toArray(),'visual pose cannot reset facing');
    }

diff --git a/docs/visual-overhaul/STATUS.md b/docs/visual-overhaul/STATUS.md
@@ -20,8 +20,9 @@ Initiative: [#82](https://github.com/benhorner9/Projectoakrest/issues/82). Branc
 ## Implemented, awaiting acceptance
 
 - Candidate complete-pose driver and state precedence; hand contact is numeric evidence, not final animation choreography approval.
-- Authored tapered torso, face/hair, sleeves, legs, boots, belt, chest armour, greaves and pauldrons, with unchanged joint anchors. Palms/fingers, complete outfit fitting and human silhouette/motion review still need work.
+- Authored tapered torso, face/hair, sleeves, legs, boots, belt, chest armour, greaves and pauldrons, with unchanged joint anchors. Version-3 wrist joints and mirrored, four-finger hand morphs now separate anatomical wrist position from grip contact. Imported handle fitting, complete outfits and human silhouette/motion review remain pending.
 - Candidate ankle joints, shared fixed-length arm/leg constraints, upper-body yaw independent of the pelvis, grounded soles, steady-speed stance cancellation, eased starts/stops, backward/sideways travel and turn steps. Slope-normal soles, toe roll and full human motion approval remain pending.
+- Bounded fall and recovery, visible body ground support and retained weapon constraints through defeat; actual-game defeat/respawn regression is included. Final resting prop/armour contact and human review remain pending.
 - Continuous authoritative action clock, separate bow draw, and contact poses unaffected by smoothing lag. This improves existing cues; it does not complete final per-ability choreography.
 - Opt-in actual-game playtest at `?qa=1&visual-foundation=1` in local/dev only, using collision-resolved travel and optional terrain height. Default renderer and save schema remain unchanged. Real-game candidate integration test is a required separate CI job.
 - Browser reference coverage and evidence are specified in `QA.md`; consult actual reported results, not this inventory of implementation.
@@ -30,7 +31,7 @@ Initiative: [#82](https://github.com/benhorner9/Projectoakrest/issues/82). Branc
 
 | ID | Finding | Required resolution |
 |---|---|---|
-| VIS-01 | Candidate body/plate now uses fitted cross-section meshes, but hands, full outfits and joint intersections still need polish; armour remains rigid rather than skinned. | Finish canonical model and fit all actual wearable combinations, then human visual review. |
+| VIS-01 | Candidate body/plate now uses fitted cross-section meshes, but final hand/handle fitting, full outfits and joint intersections still need polish; armour remains rigid rather than skinned. | Finish canonical model and fit all actual wearable combinations, then human visual review. |
 | VIS-02 | Live imported held items still use a generic normalized-height offset. | Candidate per-mesh transforms now load in the reference, including corrected crossbow source axis. Finish human handle fitting, reload/focus part animation and every-state visual review before live migration. |
 | VIS-03 | Candidate ability cues do not yet provide fully distinct, final choreography for every mechanic. | Author/review each current ability, especially defence, healing, multi-shot and paired dagger strikes, against real event timing. |
 | VIS-04 | Candidate muzzle is diagnostic; real projectile spawning still uses the live hand offset. | Integrate into actual combat only with obstruction/range/trajectory regression; no purely visual authority. |
@@ -72,4 +73,6 @@ Finish/review the canonical foundation and required regressions. PR targets `dev
 
 Current observed hosted marker is `530bed9ee6f810f4e683af174cce33cdf2ef0171` (rechecked during this continuation), not this candidate. A future rollback can revert this foundation commit without save migration; the candidate is opt-in and never writes player data.
 
-Local continuation validation: 263 unit/regression tests, source parsing, asset audit and static/cache build passed. Reference browser passed 818 pose samples; all seven retained source meshes passed loading/switching/fallback. Actual-game candidate Chromium closed during initialization locally, as the earlier untouched baseline did; no local candidate gameplay pass is claimed. All six workflows passed the prior `1f8f635` head; consult PR #83 for checks on the latest head. No independent review, physical iPad acceptance, merge or deployment has occurred.
+Prior grounded-locomotion checkpoint validation: 263 unit/regression tests, source parsing, asset audit and static/cache build passed. Reference browser passed 818 pose samples; all seven retained source meshes passed loading/switching/fallback. Actual-game candidate Chromium closed during initialization locally, as the earlier untouched baseline did; no local candidate gameplay pass is claimed. All six workflows passed the prior `1f8f635` head; consult PR #83 for checks on the latest head. No independent review, physical iPad acceptance, merge or deployment has occurred.
+
+Wrist/fall continuation: version-3 anatomy, hand morphs and body support implemented; 266 unit/regression tests and build pass locally. Browser captures and latest-head CI are reported in QA.md and PR #83. All seven full workflows passed preceding head `3ef3b1d`; that result must not be substituted for the next head. Review and deployment gates remain open.
